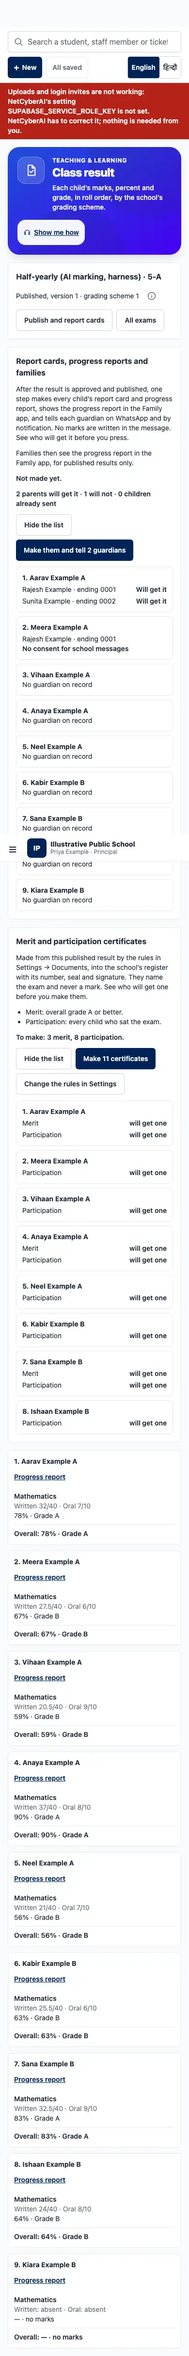
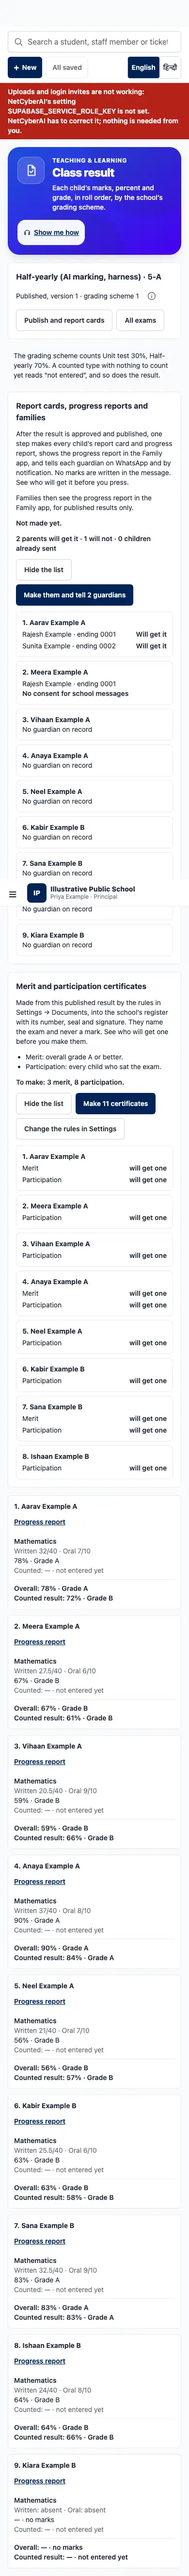
AJ-5: counted result across exam types on every screen, Hindi labels, harness pictures at 390 and 1440 in English and Hindi

Changed region(s): [[0.0, 0.0, 1.0, 0.9951], [0.8, 0.2488, 0.8308, 0.2799]]

diff --git a/test/exams/progress-outputs.test.ts b/test/exams/progress-outputs.test.ts
@@ -5,7 +5,12 @@ import { certificateSvg } from '@/lib/documents/cert-doc';
 import { certificatesToPrint, certificateRegister, verifyCertificate } from '@/lib/documents/certificates';
 import { makeResultCertificates, resultCertificatesPreview } from '@/lib/documents/result-certificates';
 import { composeResultCertificate, gradeFloor, readRules, recipientsOf } from '@/lib/documents/result-certificate-rules';
-import { groupByType, progressReport } from '@/lib/exams/progress-report';
+import { groupByType, progressReport, progressWeighted } from '@/lib/exams/progress-report';
+import { progressBlocks } from '@/lib/exams/progress-report-text';
+import { reportCards } from '@/lib/exams/report-card';
+import { blocksText, reportCardBlocks } from '@/lib/exams/report-card-text';
+import { classResult } from '@/lib/exams/results';
+import { weightedNamesOf } from '@/lib/exams/weighted-view';
 import { outputsState, publishAndNotify } from '@/lib/exams/publish-outputs';
 import { publishClass, reopenClass } from '@/lib/exams/publish';
 import { DEFAULT_EXAM_TYPES } from '@/lib/contracts/exam-types';
@@ -498,5 +503,93 @@ describe('the certificates, into the school’s register', () => {
     expect(docs).toEqual(expect.arrayContaining(['merit_basis', 'merit_grade', 'merit_percent', 'participation_for']));
     const exams = settingsSchemaFor('exams')!.fields.map((f) => f.key);
     for (const k of ['merit_basis', 'merit_grade', 'merit_percent', 'participation_for']) expect(exams).not.toContain(k);
+  });
+});
+
+describe('the counted result across exam types, where the scheme weighs them (C230-AJ part 2 and 5)', () => {
+  const schemeWith = (examTypes: { type: string; weight: number }[]) => ({ ...SCHEME, examTypes });
+  const addScheme = (version: number, scheme: unknown) => q(`insert into grading_schemes (school_id, version, scheme, made_by) values ($1, $2, $3::jsonb, $4)`, [A, version, JSON.stringify(scheme), PRINCIPAL]);
+  const republishHalf = async () => {
+    expect(await as(principal, (c) => reopenClass(c, actor(principal), HALF, C6A, 'The weights changed; counted again.'))).toMatchObject({ ok: true });
+    expect(await publish(HALF)).toMatchObject({ ok: true });
+  };
+  const cardText = async (lang: 'en' | 'hi' = 'en') => {
+    const r = await as(principal, (c) => reportCards(c, actor(principal), HALF, C6A, S1));
+    if (!r.ok) throw new Error(r.reason);
+    return { set: r.set, text: blocksText(reportCardBlocks(r.set, r.set.cards[0], lang)) };
+  };
+
+  it('with no weights nothing is added: the progress report, the class result and the report card are as they were', async () => {
+    const r = await progress(S1);
+    if (!r.ok) throw new Error(r.reason);
+    expect(r.report.weighted).toBeUndefined();
+    expect(await family()).not.toHaveProperty('weighted');
+    const c = await as(principal, (cl) => classResult(cl, actor(principal), HALF, C6A));
+    expect(c).not.toHaveProperty('weighted');
+    expect(c!.children[0]).not.toHaveProperty('weighted');
+    const { set, text } = await cardText();
+    expect(set.weighted).toBeUndefined();
+    expect(text).not.toMatch(/Counted across exam types/);
+  });
+
+  it('the Unit test counts 30 and the Half-yearly 70: the child’s counted result, in the progress report, the class result and the report card', async () => {
+    await addScheme(2, schemeWith([{ type: 'unit', weight: 30 }, { type: 'half_yearly', weight: 70 }]));
+    await republishHalf();
+    const r = await progress(S1);
+    if (!r.ok) throw new Error(r.reason);
+    // Unit 85 and Half-yearly 95 over both subjects; Mathematics 90 and 96, Science 80 and 94.
+    expect(r.report.weighted).toEqual({
+      weights: [{ type: 'unit', name: { en: 'Unit test', hi: 'इकाई परीक्षा' }, weight: 30 }, { type: 'half_yearly', name: { en: 'Half-yearly', hi: 'अर्धवार्षिक परीक्षा' }, weight: 70 }],
+      subjects: [
+        { name: 'Mathematics', types: [90, 96], percent: 94, grade: 'A' },
+        { name: 'Science', types: [80, 94], percent: 90, grade: 'A' },
+      ],
+      overall: { types: [85, 95], percent: 92, grade: 'A' },
+    });
+    const text = blocksText(progressBlocks(r.report, 'en'));
+    expect(text).toMatch(/Counted across exam types/);
+    expect(text).toMatch(/Unit test 30% \| Half-yearly 70% \| Counted result/);
+    expect(text).toMatch(/Overall \| 85% \| 95% \| 92% · A/);
+    expect(blocksText(progressBlocks(r.report, 'hi'))).toMatch(/परीक्षा के प्रकारों में गिना गया परिणाम/);
+    // The class result and the report card carry it too, with the types' names.
+    const cl = await as(principal, (c) => classResult(c, actor(principal), HALF, C6A));
+    expect(cl!.weighted!.weights).toEqual([{ type: 'unit', weight: 30 }, { type: 'half_yearly', weight: 70 }]);
+    expect(cl!.children[0].weighted!.overall).toMatchObject({ rounded: 92 });
+    expect(await as(principal, (c) => weightedNamesOf(c, A, cl!.weighted!.weights))).toEqual({ unit: { en: 'Unit test', hi: 'इकाई परीक्षा' }, half_yearly: { en: 'Half-yearly', hi: 'अर्धवार्षिक परीक्षा' } });
+    const card = await cardText();
+    expect(card.set.weightedNames).toEqual({ unit: { en: 'Unit test', hi: 'इकाई परीक्षा' }, half_yearly: { en: 'Half-yearly', hi: 'अर्धवार्षिक परीक्षा' } });
+    expect(card.text).toMatch(/Counted across exam types/);
+    expect(card.text).toMatch(/Overall \| 85% \| 95% \| 92% · A/);
+    expect((await cardText('hi')).text).toMatch(/परीक्षा के प्रकारों में गिना गया परिणाम/);
+  });
+
+  it('the family sees it once the outputs of the republished class are made, and only for the child’s own marks', async () => {
+    expect((await family())?.weighted).toBeUndefined(); // the Half-yearly was published again: its outputs are not made yet
+    expect(await notify(HALF)).toMatchObject({ ok: true, first: true });
+    const got = await family();
+    expect(got?.weighted?.overall).toEqual({ types: [85, 95], percent: 92, grade: 'A' });
+    expect(got?.weighted?.weights.map((w) => w.name.en)).toEqual(['Unit test', 'Half-yearly']);
+    expect(JSON.stringify(got)).not.toMatch(/Bela|Chirag|Diya/);
+  });
+
+  it('a counted type with nothing published yet reads “not entered”, and so does the result', async () => {
+    await addScheme(3, schemeWith([{ type: 'unit', weight: 30 }, { type: 'half_yearly', weight: 50 }, { type: 'annual', weight: 20 }]));
+    await republishHalf();
+    const r = await progress(S1);
+    if (!r.ok) throw new Error(r.reason);
+    // The Annual was reopened and is not in force: it counts for nothing, so the result is unknown, never a mean of some weights.
+    expect(r.report.weighted!.overall).toEqual({ types: [85, 95, null], percent: null, grade: null });
+    expect(r.report.weighted!.subjects.every((s) => s.types[2] === null && s.percent === null)).toBe(true);
+    const text = blocksText(progressBlocks(r.report, 'en'));
+    expect(text).toMatch(/Overall \| 85% \| 95% \| Not entered \| Not entered/);
+    const card = await cardText();
+    expect(card.text).toMatch(/Overall \| 85% \| 95% \| Not entered \| Not entered/);
+    expect(card.set.cards[0].weighted!.overall.grade).toMatchObject({ kind: 'no_grade', reason: 'not_entered' });
+  });
+
+  it('a school that weighs no exam type keeps every screen exactly as before (pure)', () => {
+    expect(progressWeighted(null, DEFAULT_EXAM_TYPES)).toBeNull();
+    const none = { papers: [], marks: [], scheme: SCHEME as never };
+    expect(progressWeighted(none, DEFAULT_EXAM_TYPES)).toBeNull();
   });
 });

diff --git a/src/components/family/SchoolProgress.tsx b/src/components/family/SchoolProgress.tsx
@@ -46,6 +46,30 @@ export function SchoolProgressView({ progress, w, lang }: { progress: SchoolProg
           </ol>
         </section>
       ))}
+      {progress.weighted && <Counted weighted={progress.weighted} w={w} lang={lang} />}
     </>
+  );
+}
+
+// The result across the exam types the school counts (C230-AJ part 2), only when its grading scheme counts some: each subject's
+// percent in each counted type, and the counted result. A counted type with nothing published yet reads "not complete", and so
+// does the result. About the child alone.
+function Counted({ weighted, w, lang }: { weighted: NonNullable<SchoolProgress['weighted']>; w: Words; lang: 'en' | 'hi' }) {
+  const types = weighted.weights.map((x) => fill(w['fam.schoolProgress.countedType'], { name: lang === 'hi' ? x.name.hi : x.name.en, weight: x.weight })).join(', ');
+  const rows = [...weighted.subjects.map((s) => ({ name: s.name, types: s.types, percent: s.percent, grade: s.grade, strong: false })), { name: w['fam.school.resultOverall'], types: weighted.overall.types, percent: weighted.overall.percent, grade: weighted.overall.grade, strong: true }];
+  return (
+    <section className="fam-card flex flex-col gap-3 bg-white p-4 sm:p-5" data-progress-counted>
+      <h2 className="text-lg font-extrabold text-slate">{w['fam.schoolProgress.counted']}</h2>
+      <p className="text-sm text-slate">{fill(w['fam.schoolProgress.countedHow'], { types })}</p>
+      <ul className="flex flex-col gap-2">
+        {rows.map((r, i) => (
+          <li key={i} className="flex flex-col gap-1 rounded-2xl bg-off-white px-3 py-3">
+            <p className="text-base font-bold text-slate">{r.strong ? r.name : <SchoolText text={r.name} />}</p>
+            <p className="text-sm text-slate">{r.types.map((p, j) => `${lang === 'hi' ? weighted.weights[j].name.hi : weighted.weights[j].name.en}: ${p === null ? w['fam.school.resultNotComplete'] : `${Math.round(p * 10) / 10}%`}`).join(' · ')}</p>
+            <p className="text-base font-bold text-slate">{fill(w['fam.schoolProgress.countedResult'], { value: scored(w, r.percent, r.grade) })}</p>
+          </li>
+        ))}
+      </ul>
+    </section>
   );
 }

diff --git a/src/lib/i18n/messages/hi.ts b/src/lib/i18n/messages/hi.ts
@@ -6993,13 +6993,14 @@ export const hi: Record<keyof typeof en, string> = {
   'fam.schoolProgress.session': 'सत्र {session}',
   'wt.title': 'परीक्षा के प्रकारों में गिना गया परिणाम',
   'wt.how': 'ग्रेडिंग योजना {types} को गिनती है। जिस गिने गए प्रकार में अभी गिनने को कुछ नहीं, वह “नहीं भरा” दिखता है, और परिणाम भी।',
-  'wt.type': '{name} {weight}%',
+  'wt.type': '{name} · {weight}% भार',
   'wt.result': 'गिना गया परिणाम: {value}',
   'wt.subject': 'गिना गया: {value}',
   'wt.col.result': 'गिना गया परिणाम',
   'fam.schoolProgress.counted': 'परीक्षा के प्रकारों में गिना गया',
   'fam.schoolProgress.countedHow': 'आपका स्कूल {types} को गिनता है।',
   'fam.schoolProgress.countedResult': 'गिना गया: {value}',
+  'fam.schoolProgress.countedType': '{name} · {weight}% भार',
   'ex.tell.title': 'अभिभावकों को व्हाट्सऐप पर बताएँ',
   'ex.tell.lead': 'हर परिवार को अपने बच्चे के परिणाम का एक निजी लिंक मिलता है, जो 30 दिन तक चलता है। संदेश में कोई अंक नहीं लिखा जाता। भेजने से पहले देखें कि किसे मिलेगा।',
   'ex.tell.summary': '{will} अभिभावकों को मिलेगा · {wont} को नहीं · {sent} बच्चों का पहले भेजा जा चुका',

diff --git a/src/lib/i18n/messages/en.ts b/src/lib/i18n/messages/en.ts
@@ -7009,6 +7009,7 @@ export const en = {
   'fam.schoolProgress.counted': 'Counted across exam types',
   'fam.schoolProgress.countedHow': 'Your school counts {types}.',
   'fam.schoolProgress.countedResult': 'Counted: {value}',
+  'fam.schoolProgress.countedType': '{name} {weight}%',
   'ex.tell.title': 'Tell parents on WhatsApp',
   'ex.tell.lead': 'Each family gets a private link to their own child’s result, which works for 30 days. No marks are written in the message. See who will get it before you send.',
   'ex.tell.summary': '{will} parents will get it · {wont} will not · {sent} children already sent',

diff --git a/src/lib/family/marks-words.ts b/src/lib/family/marks-words.ts
@@ -31,4 +31,5 @@ export const MY_RESULTS_KEYS: MessageKey[] = [
 export const PROGRESS_KEYS: MessageKey[] = [
   'fam.schoolProgress.title', 'fam.schoolProgress.lead', 'fam.schoolProgress.leadParent', 'fam.schoolProgress.none', 'fam.schoolProgress.session',
   'fam.school.resultPublished', 'fam.school.resultOverall', 'fam.school.resultNotComplete', 'fam.marks.backParent', 'fam.marks.myResults', 'fam.tab.home',
+  'fam.schoolProgress.counted', 'fam.schoolProgress.countedHow', 'fam.schoolProgress.countedType', 'fam.schoolProgress.countedResult',
 ];
